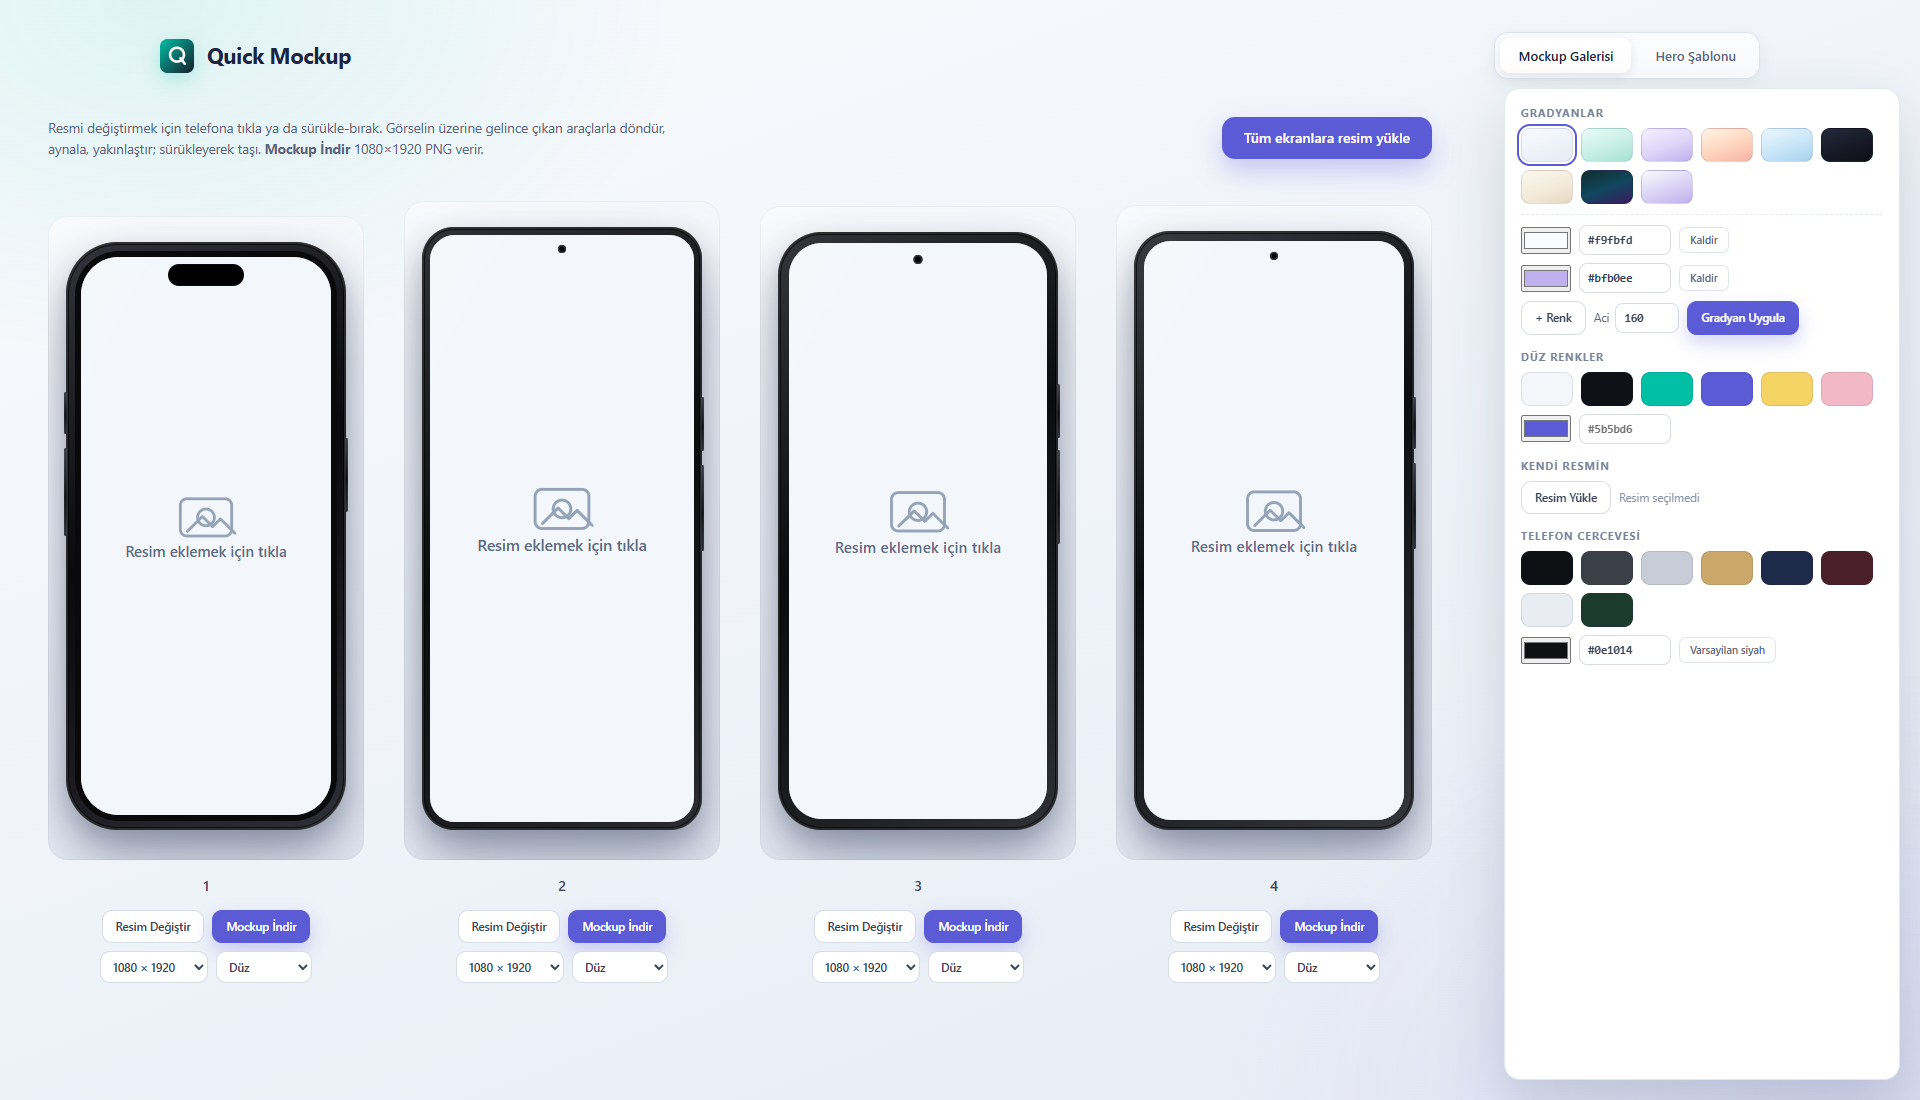
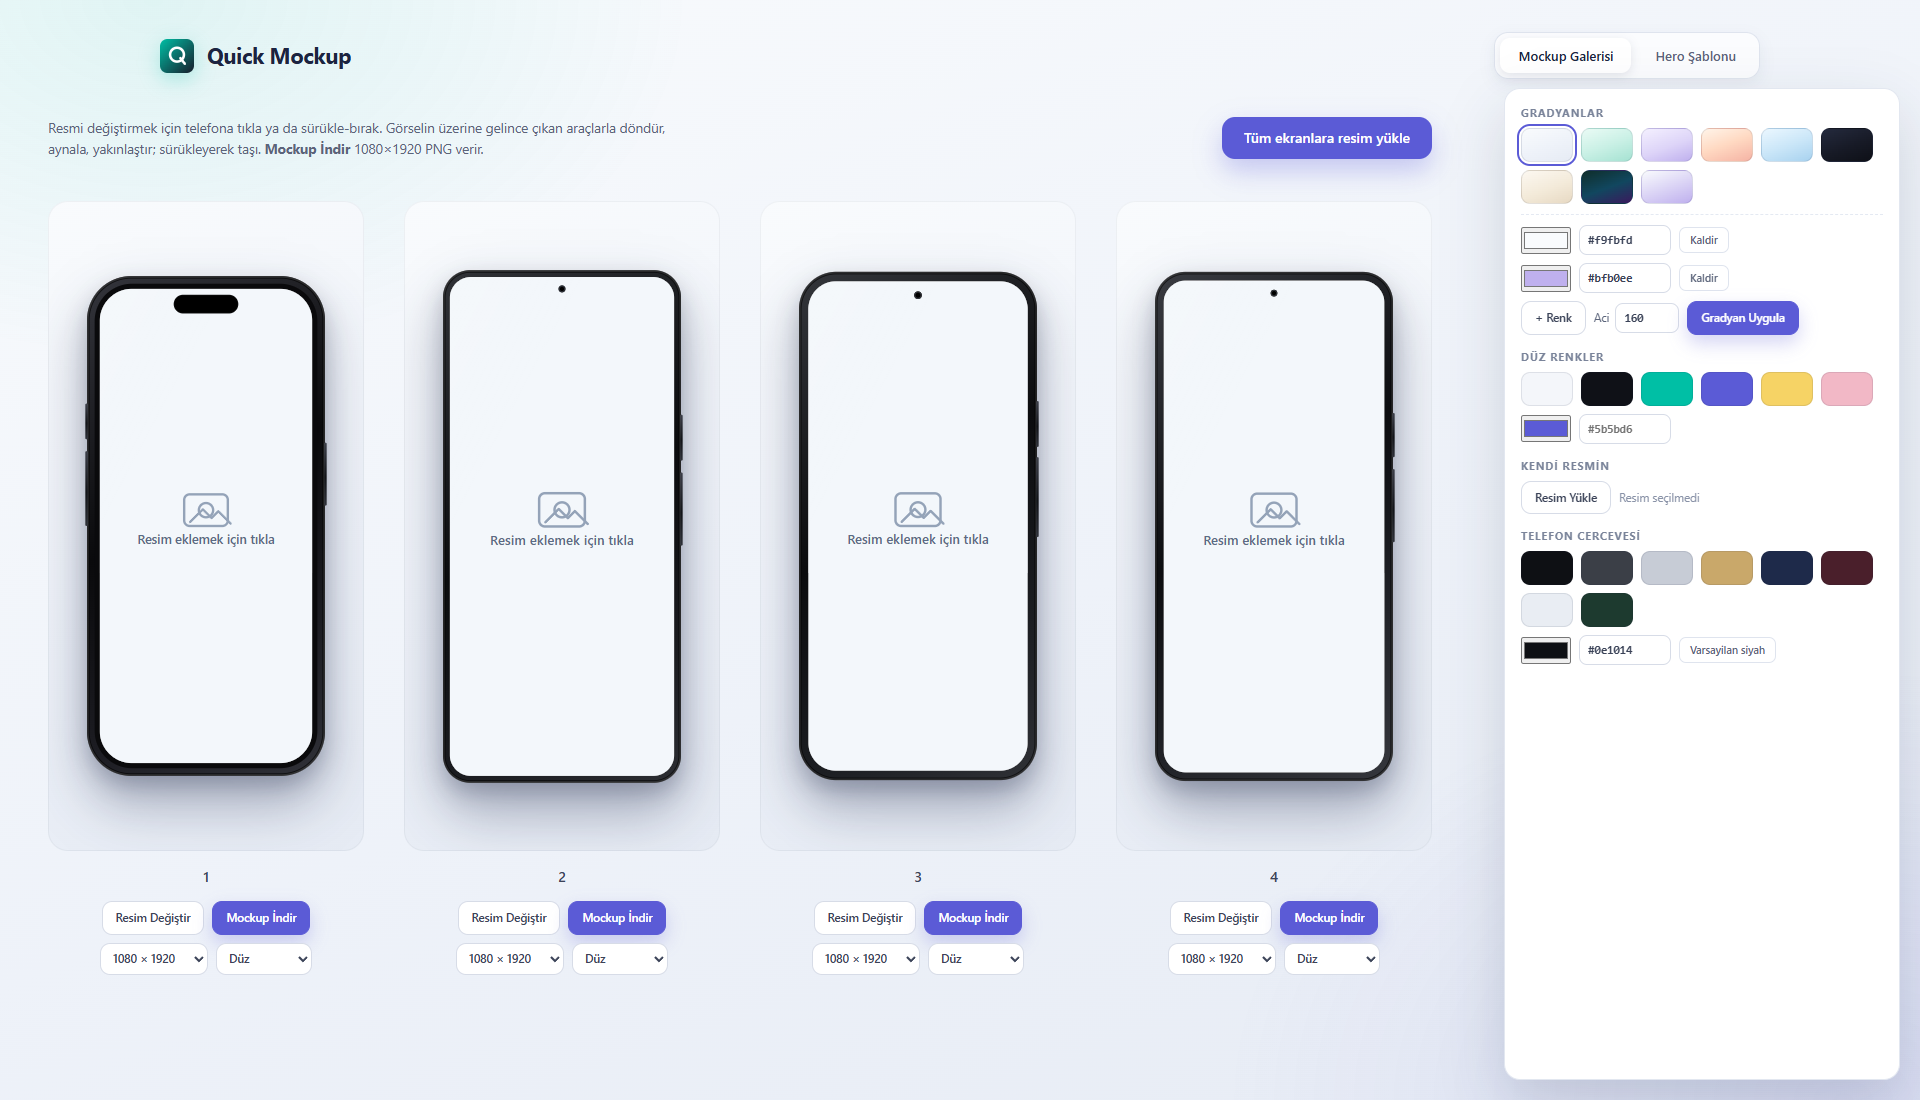
Quick Mockup: galeri telefon boyutlari buyutuldu

Changed region(s): [[0.0312, 0.1855, 0.75, 0.8964]]

diff --git a/index.html b/index.html
@@ -271,25 +271,28 @@
   .device { display: flex; flex-direction: column; align-items: center; gap: 16px; }
   .preview {
     width: 100%;
-    padding: 26px 0 30px;
+    height: 650px;
+    padding: 0;
     border-radius: 20px;
     display: flex;
+    align-items: center;
     justify-content: center;
     background: linear-gradient(160deg, #f9fbfd 0%, #eef2f9 55%, #e6ebf4 100%);
     box-shadow: inset 0 0 0 1px rgba(20, 30, 60, 0.05);
     overflow: hidden;
   }
-  .preview.style-reflect, .preview.style-studio { padding-bottom: 120px; }
+  .preview .phone { transform: scale(0.85); }
+  .preview .phone:hover { transform: scale(0.85) translateY(-4px); }
   .preview.style-tilt .phone,
-  .preview.style-tilt .phone:hover { transform: rotate(-5deg) skewX(-3deg) scale(0.94); }
+  .preview.style-tilt .phone:hover { transform: scale(0.85) rotate(-5deg) skewX(-3deg) scale(0.94); }
   .preview.style-studio .phone,
-  .preview.style-studio .phone:hover { transform: rotate(-5deg) skewX(-3deg) scale(0.94); }
+  .preview.style-studio .phone:hover { transform: scale(0.85) rotate(-5deg) skewX(-3deg) scale(0.94); }
   .gallery-reflection {
     position: absolute;
     left: 0;
     top: calc(100% + 8px);
     width: 100%;
-    height: 92px;
+    height: 72px;
     background-size: 100% 100%;
     background-repeat: no-repeat;
     pointer-events: none;
@@ -301,7 +304,7 @@
     filter: drop-shadow(0 0 18px rgba(0, 240, 255, 0.35)) drop-shadow(0 0 42px rgba(255, 0, 200, 0.30));
   }
   .preview.style-dergi .phone,
-  .preview.style-dergi .phone:hover { transform: rotate(-3deg) scale(0.94); }
+  .preview.style-dergi .phone:hover { transform: scale(0.85) rotate(-3deg) scale(0.94); }
   #heroStage.style-neon .hero-phone-col .phone.active {
     filter: drop-shadow(0 0 24px rgba(0, 240, 255, 0.35)) drop-shadow(0 0 60px rgba(255, 0, 200, 0.30));
   }
